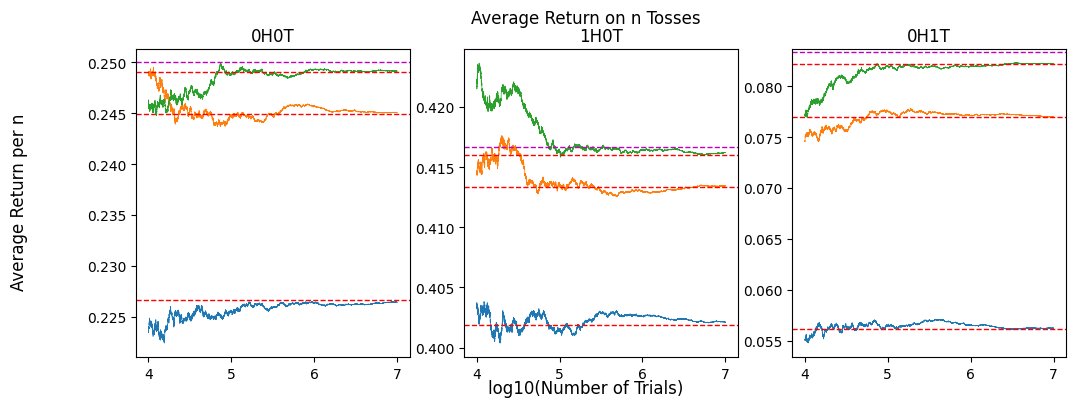
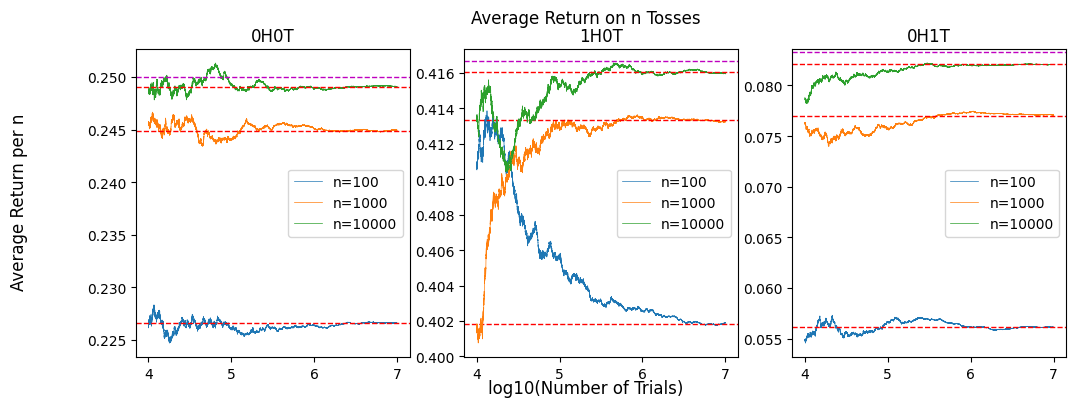
new plot

diff --git a/simulation1H0T.py b/simulation1H0T.py
@@ -2,21 +2,21 @@ import numpy as np
 import random
 import matplotlib.pyplot as plt
 import time
+import h5py
 
 P_100 = np.load('P_100.npy')
 P_1000 = np.load('P_1000.npy')
 P_10000 = np.load('P_10000.npy')
 Ps = [P_100, P_1000, P_10000]
 ns = [100,1000,10000]
-epoch_count=100000000
-sum_scores_ns = np.zeros((3,epoch_count))
+epoch_count=10**7
+sum_scores_ns = h5py.File('1H0T_simulation_data.hdf5','a')
 
 for k in range(3):
     start = time.time()
     P = Ps[k]
     n = ns[k]
     sum_scores = np.zeros(epoch_count)
-    avg_scores = np.zeros(epoch_count)
     epoch = 0
     while epoch<epoch_count:
         p = random.random()
@@ -34,23 +34,9 @@ for k in range(3):
             stop_ind = -1 if stop_ind.shape[0]==0 else stop_ind[0]
         score = sum_tosses[stop_ind]-1 #remove the score added from assumption
         sum_scores[epoch] = sum_scores[epoch-1]+score
-        avg_scores[epoch] = sum_scores[epoch]/(epoch+1)
         if epoch%100000==99999:
-            print(epoch, n, avg_scores[epoch], time.time()-start)
+            print(epoch+1, n, sum_scores[epoch]/(epoch+1), time.time()-start)
         epoch += 1
-    sum_scores_ns[k,:]=sum_scores
-    plt.plot(np.log10(np.arange(10001,epoch_count+1)), avg_scores[10000:]/n, linewidth=0.5, label='n={n}'.format(n=n))
+    sum_scores_ns.create_dataset(str(n),data=sum_scores)
 
-np.save('sum_scores_100_1000_10000_with_1H0T.npy',sum_scores_ns)
-
-plt.title('Average Return Under Optimal Play with 1H0T')
-plt.xlabel('Log10(Trials)')
-plt.ylabel('Average Return per n')
-plt.legend()
-plt.axhline(y=0.4018486612383934, color='r', linestyle='--', linewidth=1)
-plt.axhline(y=0.41330665099425146, color='r', linestyle='--', linewidth=1)
-plt.axhline(y=0.4160149920742702, color='r', linestyle='--', linewidth=1)
-plt.axhline(y=0.4166666666666667, color='m', linestyle='--', linewidth=1)
-plt.savefig('Average Return for each n with 1H0T.png', bbox_inches='tight')
-
-
+sum_scores_ns.close()

diff --git a/simulation0H1T.py b/simulation0H1T.py
@@ -2,21 +2,21 @@ import numpy as np
 import random
 import matplotlib.pyplot as plt
 import time
+import h5py
 
 P_100 = np.load('P_100.npy')
 P_1000 = np.load('P_1000.npy')
 P_10000 = np.load('P_10000.npy')
 Ps = [P_100, P_1000, P_10000]
 ns = [100,1000,10000]
-epoch_count=100000000
-sum_scores_ns = np.zeros((3,epoch_count))
+epoch_count=10**7
+sum_scores_ns = h5py.File('0H1T_simulation_data.hdf5','a')
 
 for k in range(3):
     start = time.time()
     P = Ps[k]
     n = ns[k]
     sum_scores = np.zeros(epoch_count)
-    avg_scores = np.zeros(epoch_count)
     epoch = 0
     while epoch<epoch_count:
         p = random.random()
@@ -31,23 +31,9 @@ for k in range(3):
         stop_ind = -1 if stop_ind.shape[0]==0 else stop_ind[0]
         score = sum_tosses[stop_ind]+1 #add the score removed from assumption
         sum_scores[epoch] = sum_scores[epoch-1]+score
-        avg_scores[epoch] = sum_scores[epoch]/(epoch+1)
         if epoch%100000==99999:
-            print(epoch, n, avg_scores[epoch], time.time()-start)
+            print(epoch+1, n, sum_scores[epoch]/(epoch+1), time.time()-start)
         epoch += 1
-    sum_scores_ns[k,:]=sum_scores
-    plt.plot(np.log10(np.arange(10001,epoch_count+1)), avg_scores[10000:]/n, linewidth=0.5, label='n={n}'.format(n=n))
+    sum_scores_ns.create_dataset(str(n),data=sum_scores)
 
-np.save('sum_scores_100_1000_10000_with_0H1T.npy',sum_scores_ns)
-
-plt.title('Average Return Under Optimal Play with 0H1T')
-plt.xlabel('Log10(Trials)')
-plt.ylabel('Average Return per n')
-plt.legend()
-plt.axhline(y=0.0561675346135595, color='r', linestyle='--', linewidth=1)
-plt.axhline(y=0.07699905917240113, color='r', linestyle='--', linewidth=1)
-plt.axhline(y=0.08214570168004924, color='r', linestyle='--', linewidth=1)
-plt.axhline(y=0.08333333333333333, color='m', linestyle='--', linewidth=1)
-plt.savefig('Average Return for each n with 0H1T.png', bbox_inches='tight')
-
-
+sum_scores_ns.close()

diff --git a/plot_simulaiton.py b/plot_simulaiton.py
@@ -2,7 +2,6 @@ import numpy as np
 import matplotlib.pyplot as plt
 import h5py
 
-f = h5py.File("simulation_data.hdf5", "r")
 titles = ['0H0T', '1H0T', '0H1T']
 ns = [100,1000,10000]
 avgPerNs = [
@@ -22,12 +21,14 @@ for k in range(3):
     ax = axes[k]
     title = titles[k]
     avgPerN = avgPerNs[k]
-    ds = f[title]
+    ds = h5py.File(title+'_simulation_data.hdf5','r')
     for j in range(3):
         n = ns[j]
         d = ds[str(n)]
-        ax.plot(np.log10(np.arange(10001,d.shape[1]+1)), d[j,10000:]/n, linewidth=0.5, label='n={n}'.format(n=n))
+        ax.plot(np.log10(np.arange(10001,d.shape[0]+1)), d[10000:]/np.arange(10001,d.shape[0]+1)/n, linewidth=0.5, label='n={n}'.format(n=n))
         ax.axhline(y=avgPerN[j], color='r', linestyle='--', linewidth=1)
     ax.axhline(y=avgPerN[-1], color='m', linestyle='--', linewidth=1)
     ax.set_title(title)
+    ax.legend()
+    ds.close()
 plt.savefig('Average Return on n Tosses.png', bbox_inches='tight')

diff --git a/simulation.py b/simulation.py
@@ -9,7 +9,7 @@ P_1000 = np.load('P_1000.npy')
 P_10000 = np.load('P_10000.npy')
 Ps = [P_100, P_1000, P_10000]
 ns = [100,1000,10000]
-epoch_count=100000000
+epoch_count=10**7
 sum_scores_ns = h5py.File('0H0T_simulation_data.hdf5','a')
 
 for k in range(3):
@@ -33,6 +33,4 @@ for k in range(3):
         epoch += 1
     sum_scores_ns.create_dataset(str(n),data=sum_scores)
 
-np.save('sum_scores_100_1000_10000.npy',sum_scores_ns)
-
-
+sum_scores_ns.close()
